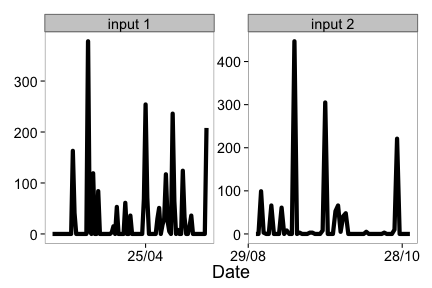
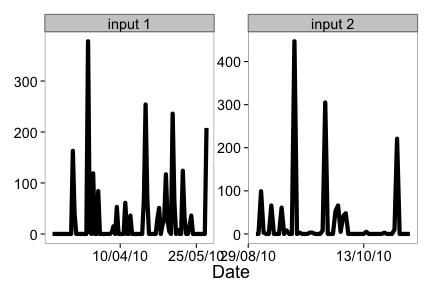
updated rnoaa tutorial

Changed region(s): [[0.2106, 0.8438, 0.662, 0.9062], [0.7824, 0.8438, 0.9931, 0.9062]]

diff --git a/tutorials/rnoaa_tutorial.md b/tutorials/rnoaa_tutorial.md
@@ -1,9 +1,8 @@
 ---
 title: rnoaa tutorial
 layout: tutorial
-packge_version: 0.1.0
+packge_version: 0.2.0
 ---
-
 
 
 
@@ -12,59 +11,66 @@ packge_version: 0.1.0
 ## Installation
 
 
-Install and load `rnoaa` into the R session.
+Install and load `rnoaa` into the R session. Stable version from CRAN
 
 
 ```r
-library("devtools")
+install.packages("rnoaa")
+```
+
+Or development version from Github:
+
+
+```r
+install.packages("devtools")
 devtools::install_github("rnoaa", "ropensci")
 ```
 
 
-
 ```r
-library("rnoaa")
-library("plyr")
+library('rnoaa')
+library('plyr')
 ```
 
-You'll also want to grab an API key from NOAA at [http://www.ncdc.noaa.gov/cdo-web/token](http://www.ncdc.noaa.gov/cdo-web/token).
+__Note__ that NOAA buoy data requires `netcdf`, and the `ncdf4` R package, which doesn't work well on Windows. Thus, we put functions to interact with that data into a different branch `buoy`. Install that version by doing
 
-<br>
+
+```r
+devtools::install_github("rnoaa", "ropensci", ref="buoy")
+library('rnoaa')
+```
 
 <section id="usage">
 
 ## Usage
 
-Get info on a station by specifying a datasetid, locationid, and stationid
+### Get info on a station by specifying a datasetid, locationid, and stationid
 
 
 ```r
-noaa_stations(datasetid = "GHCND", locationid = "FIPS:12017", stationid = "GHCND:USC00084289")
+ncdc_stations(datasetid='GHCND', locationid='FIPS:12017', stationid='GHCND:USC00084289')
 ```
 
 ```
 ## $meta
 ## NULL
-##
+## 
 ## $data
-##                  id                  name datacoverage    mindate
-## 1 GHCND:USC00084289 INVERNESS 3 SE, FL US            1 1899-02-01
-##      maxdate
-## 1 2014-04-22
-##
+##                  id elevation                  name elevationUnit
+## 1 GHCND:USC00084289      12.2 INVERNESS 3 SE, FL US        METERS
+##   datacoverage longitude    mindate latitude    maxdate
+## 1            1    -82.31 1899-02-01     28.8 2014-07-18
+## 
 ## attr(,"class")
-## [1] "noaa_stations"
+## [1] "ncdc_stations"
 ```
 
-<br>
-Search for data and get a data.frame or list
+### Search for data and get a data.frame
 
 
 ```r
-out <- noaa(datasetid = "GHCND", stationid = "GHCND:USW00014895", startdate = "2013-10-01",
-    enddate = "2013-12-01")
+out <- ncdc(datasetid='NORMAL_DLY', datatypeid='dly-tmax-normal', startdate = '2010-05-01', enddate = '2010-05-10')
 ```
-
 
 See a data.frame
 
@@ -74,166 +80,170 @@ out$data
 ```
 
 ```
-##              station value attributes datatype                date
-## 1  GHCND:USW00014895    29       ,,W,     AWND 2013-10-01T00:00:00
-## 2  GHCND:USW00014895     0   ,,W,2400     PRCP 2013-10-01T00:00:00
-## 3  GHCND:USW00014895     0       ,,W,     SNOW 2013-10-01T00:00:00
-## 4  GHCND:USW00014895     0       ,,W,     SNWD 2013-10-01T00:00:00
-## 5  GHCND:USW00014895   250   ,,W,2400     TMAX 2013-10-01T00:00:00
-## 6  GHCND:USW00014895   133   ,,W,2400     TMIN 2013-10-01T00:00:00
-## 7  GHCND:USW00014895   210       ,,W,     WDF2 2013-10-01T00:00:00
-## 8  GHCND:USW00014895   230       ,,W,     WDF5 2013-10-01T00:00:00
-## 9  GHCND:USW00014895    76       ,,W,     WSF2 2013-10-01T00:00:00
-## 10 GHCND:USW00014895    94       ,,W,     WSF5 2013-10-01T00:00:00
-## 11 GHCND:USW00014895    26       ,,W,     AWND 2013-10-02T00:00:00
-## 12 GHCND:USW00014895     0   ,,W,2400     PRCP 2013-10-02T00:00:00
-## 13 GHCND:USW00014895     0       ,,W,     SNOW 2013-10-02T00:00:00
-## 14 GHCND:USW00014895     0       ,,W,     SNWD 2013-10-02T00:00:00
-## 15 GHCND:USW00014895   278   ,,W,2400     TMAX 2013-10-02T00:00:00
-## 16 GHCND:USW00014895   144   ,,W,2400     TMIN 2013-10-02T00:00:00
-## 17 GHCND:USW00014895   250       ,,W,     WDF2 2013-10-02T00:00:00
-## 18 GHCND:USW00014895   270       ,,W,     WDF5 2013-10-02T00:00:00
-## 19 GHCND:USW00014895    58       ,,W,     WSF2 2013-10-02T00:00:00
-## 20 GHCND:USW00014895    72       ,,W,     WSF5 2013-10-02T00:00:00
-## 21 GHCND:USW00014895    31       ,,W,     AWND 2013-10-03T00:00:00
-## 22 GHCND:USW00014895   391   ,,W,2400     PRCP 2013-10-03T00:00:00
-## 23 GHCND:USW00014895     0       ,,W,     SNOW 2013-10-03T00:00:00
-## 24 GHCND:USW00014895     0       ,,W,     SNWD 2013-10-03T00:00:00
-## 25 GHCND:USW00014895   261   ,,W,2400     TMAX 2013-10-03T00:00:00
+##              station value        datatype                date fl_c
+## 1  GHCND:AQW00061705   869 DLY-TMAX-NORMAL 2010-05-01T00:00:00    C
+## 2  GHCND:CAW00064757   607 DLY-TMAX-NORMAL 2010-05-01T00:00:00    Q
+## 3  GHCND:CQC00914080   840 DLY-TMAX-NORMAL 2010-05-01T00:00:00    R
+## 4  GHCND:CQC00914801   858 DLY-TMAX-NORMAL 2010-05-01T00:00:00    R
+## 5  GHCND:FMC00914395   876 DLY-TMAX-NORMAL 2010-05-01T00:00:00    P
+## 6  GHCND:FMC00914419   885 DLY-TMAX-NORMAL 2010-05-01T00:00:00    P
+## 7  GHCND:FMC00914446   885 DLY-TMAX-NORMAL 2010-05-01T00:00:00    P
+## 8  GHCND:FMC00914482   868 DLY-TMAX-NORMAL 2010-05-01T00:00:00    R
+## 9  GHCND:FMC00914720   899 DLY-TMAX-NORMAL 2010-05-01T00:00:00    R
+## 10 GHCND:FMC00914761   897 DLY-TMAX-NORMAL 2010-05-01T00:00:00    P
+## 11 GHCND:FMC00914831   870 DLY-TMAX-NORMAL 2010-05-01T00:00:00    P
+## 12 GHCND:FMC00914892   883 DLY-TMAX-NORMAL 2010-05-01T00:00:00    P
+## 13 GHCND:FMC00914898   875 DLY-TMAX-NORMAL 2010-05-01T00:00:00    P
+## 14 GHCND:FMC00914911   885 DLY-TMAX-NORMAL 2010-05-01T00:00:00    P
+## 15 GHCND:FMW00040308   888 DLY-TMAX-NORMAL 2010-05-01T00:00:00    S
+## 16 GHCND:FMW00040504   879 DLY-TMAX-NORMAL 2010-05-01T00:00:00    C
+## 17 GHCND:FMW00040505   867 DLY-TMAX-NORMAL 2010-05-01T00:00:00    S
+## 18 GHCND:GQC00914025   852 DLY-TMAX-NORMAL 2010-05-01T00:00:00    P
+## 19 GHCND:GQW00041415   877 DLY-TMAX-NORMAL 2010-05-01T00:00:00    C
+## 20 GHCND:JQW00021603   852 DLY-TMAX-NORMAL 2010-05-01T00:00:00    P
+## 21 GHCND:PSC00914519   883 DLY-TMAX-NORMAL 2010-05-01T00:00:00    P
+## 22 GHCND:PSC00914712   840 DLY-TMAX-NORMAL 2010-05-01T00:00:00    P
+## 23 GHCND:PSW00040309   879 DLY-TMAX-NORMAL 2010-05-01T00:00:00    S
+## 24 GHCND:RMW00040604   867 DLY-TMAX-NORMAL 2010-05-01T00:00:00    S
+## 25 GHCND:RMW00040710   863 DLY-TMAX-NORMAL 2010-05-01T00:00:00    C
 ```
 
+### Plot data, super simple, but it's a start
 
 
-Plotting
+```r
+out <- ncdc(datasetid='NORMAL_DLY', stationid='GHCND:USW00014895', datatypeid='dly-tmax-normal', startdate = '2010-01-01', enddate = '2010-12-10', limit = 300)
+ncdc_plot(out)
+```
 
-Example 1
+![plot of chunk six](../assets/tutorial-images/rnoaa/six.png) 
+
+### More on plotting
+
+#### Example 1
 
 Search for data first, then plot
 
 
 ```r
-out <- noaa(datasetid = "GHCND", stationid = "GHCND:USW00014895", datatypeid = "PRCP",
-    startdate = "2010-05-01", enddate = "2010-10-31", limit = 500)
+out <- ncdc(datasetid='GHCND', stationid='GHCND:USW00014895', datatypeid='PRCP', startdate = '2010-05-01', enddate = '2010-10-31', limit=500)
 ```
-
 
 Default plot
 
 
 ```r
-noaa_plot(out)
+ncdc_plot(out)
 ```
 
-![plot of chunk unnamed-chunk-3](../assets/tutorial-images/rnoaa/unnamed-chunk-3.png)
-
+![plot of chunk unnamed-chunk-3](../assets/tutorial-images/rnoaa/unnamed-chunk-3.png) 
 
 Create 14 day breaks
 
 
 ```r
-noaa_plot(out, breaks = "14 days")
+ncdc_plot(out, breaks="14 days")
 ```
 
-![plot of chunk unnamed-chunk-4](../assets/tutorial-images/rnoaa/unnamed-chunk-4.png)
-
+![plot of chunk unnamed-chunk-4](../assets/tutorial-images/rnoaa/unnamed-chunk-4.png) 
 
 One month breaks
 
 
 ```r
-noaa_plot(out, breaks = "1 month", dateformat = "%d/%m")
+ncdc_plot(out, breaks="1 month", dateformat="%d/%m")
 ```
 
-![plot of chunk unnamed-chunk-5](../assets/tutorial-images/rnoaa/unnamed-chunk-5.png)
+![plot of chunk unnamed-chunk-5](../assets/tutorial-images/rnoaa/unnamed-chunk-5.png) 
 
-<br>
-Example 2
+#### Example 2
 
 Search for data
 
 
 ```r
-out2 <- noaa(datasetid = "GHCND", stationid = "GHCND:USW00014895", datatypeid = "PRCP",
-    startdate = "2010-05-01", enddate = "2010-05-03", limit = 100)
+out2 <- ncdc(datasetid='GHCND', stationid='GHCND:USW00014895', datatypeid='PRCP', startdate = '2010-05-01', enddate = '2010-05-03', limit=100)
 ```
-
 
 Make a plot, with 6 hour breaks, and date format with only hour
 
 
 ```r
-noaa_plot(out2, breaks = "6 hours", dateformat = "%H")
+ncdc_plot(out2, breaks="6 hours", dateformat="%H")
 ```
 
-![plot of chunk unnamed-chunk-7](../assets/tutorial-images/rnoaa/unnamed-chunk-7.png)
+![plot of chunk unnamed-chunk-7](../assets/tutorial-images/rnoaa/unnamed-chunk-7.png) 
 
-<br>
-Combine many calls to noaa function
+### Combine many calls to noaa function
 
 Search for two sets of data
 
 
 ```r
-out1 <- noaa(datasetid = "GHCND", stationid = "GHCND:USW00014895", datatypeid = "PRCP",
-    startdate = "2010-03-01", enddate = "2010-05-31", limit = 500)
+out1 <- ncdc(datasetid='GHCND', stationid='GHCND:USW00014895', datatypeid='PRCP', startdate = '2010-03-01', enddate = '2010-05-31', limit=500)
 
-out2 <- noaa(datasetid = "GHCND", stationid = "GHCND:USW00014895", datatypeid = "PRCP",
-    startdate = "2010-09-01", enddate = "2010-10-31", limit = 500)
+out2 <- ncdc(datasetid='GHCND', stationid='GHCND:USW00014895', datatypeid='PRCP', startdate = '2010-09-01', enddate = '2010-10-31', limit=500)
 ```
 
-
-Then combine with a call to `noaa_combine`
+Then combine with a call to `ncdc_combine`
 
 
 ```r
-df <- noaa_combine(out1, out2)
-head(df[[1]])
+df <- ncdc_combine(out1, out2)
+head(df[[1]]); tail(df[[1]])
 ```
 
 ```
-##             station value attributes datatype                date
-## 1 GHCND:USW00014895     0  T,,0,2400     PRCP 2010-03-01T00:00:00
-## 2 GHCND:USW00014895     0  T,,0,2400     PRCP 2010-03-02T00:00:00
-## 3 GHCND:USW00014895     0  T,,0,2400     PRCP 2010-03-03T00:00:00
-## 4 GHCND:USW00014895     0   ,,0,2400     PRCP 2010-03-04T00:00:00
-## 5 GHCND:USW00014895     0   ,,0,2400     PRCP 2010-03-05T00:00:00
-## 6 GHCND:USW00014895     0   ,,0,2400     PRCP 2010-03-06T00:00:00
+##             station value datatype                date fl_m fl_q fl_so
+## 1 GHCND:USW00014895     0     PRCP 2010-03-01T00:00:00    T          0
+## 2 GHCND:USW00014895     0     PRCP 2010-03-02T00:00:00    T          0
+## 3 GHCND:USW00014895     0     PRCP 2010-03-03T00:00:00    T          0
+## 4 GHCND:USW00014895     0     PRCP 2010-03-04T00:00:00               0
+## 5 GHCND:USW00014895     0     PRCP 2010-03-05T00:00:00               0
+## 6 GHCND:USW00014895     0     PRCP 2010-03-06T00:00:00               0
+##   fl_t
+## 1 2400
+## 2 2400
+## 3 2400
+## 4 2400
+## 5 2400
+## 6 2400
 ```
 
-```r
-tail(df[[1]])
 ```
-
+##               station value datatype                date fl_m fl_q fl_so
+## 148 GHCND:USW00014895   221     PRCP 2010-10-26T00:00:00               0
+## 149 GHCND:USW00014895     0     PRCP 2010-10-27T00:00:00               0
+## 150 GHCND:USW00014895     0     PRCP 2010-10-28T00:00:00    T          0
+## 151 GHCND:USW00014895     0     PRCP 2010-10-29T00:00:00    T          0
+## 152 GHCND:USW00014895     0     PRCP 2010-10-30T00:00:00               0
+## 153 GHCND:USW00014895     0     PRCP 2010-10-31T00:00:00               0
+##     fl_t
+## 148 2400
+## 149 2400
+## 150 2400
+## 151 2400
+## 152 2400
+## 153 2400
 ```
-##               station value attributes datatype                date
-## 148 GHCND:USW00014895   221   ,,0,2400     PRCP 2010-10-26T00:00:00
-## 149 GHCND:USW00014895     0   ,,0,2400     PRCP 2010-10-27T00:00:00
-## 150 GHCND:USW00014895     0  T,,0,2400     PRCP 2010-10-28T00:00:00
-## 151 GHCND:USW00014895     0  T,,0,2400     PRCP 2010-10-29T00:00:00
-## 152 GHCND:USW00014895     0   ,,0,2400     PRCP 2010-10-30T00:00:00
-## 153 GHCND:USW00014895     0   ,,0,2400     PRCP 2010-10-31T00:00:00
-```
-
 
 Then plot - the default passing in the combined plot plots the data together. In this case it looks kind of weird since a straight line combines two distant dates.
 
 
 ```r
-noaa_plot(df)
+ncdc_plot(df)
 ```
 
-![plot of chunk unnamed-chunk-10](../assets/tutorial-images/rnoaa/unnamed-chunk-10.png)
-
+![plot of chunk unnamed-chunk-10](../assets/tutorial-images/rnoaa/unnamed-chunk-10.png) 
 
 But we can pass in each separately, which uses `facet_wrap` in `ggplot2` to plot each set of data in its own panel.
 
 
 ```r
-noaa_plot(out1, out2, breaks = "60 days", dateformat = "%d/%m")
+ncdc_plot(out1, out2, breaks="45 days")
 ```
 
-![plot of chunk unnamed-chunk-11](../assets/tutorial-images/rnoaa/unnamed-chunk-11.png)
-
+![plot of chunk unnamed-chunk-11](../assets/tutorial-images/rnoaa/unnamed-chunk-11.png) 
 
 <section id="citing">
 
@@ -243,7 +253,7 @@ To cite `rnoaa` in publications use:
 
 <br>
 
-> Hart Edmund, Scott Chamberlain and Karthik Ram (2014). rnoaa: NOAA climate data from R. R package version 0.1.2. https://github.com/ropensci/rnoaa
+> Hart Edmund, Scott Chamberlain and Karthik Ram (2014). rnoaa: NOAA climate data from R. R package version 0.2.0. https://github.com/ropensci/rnoaa
 
 <section id="license_bugs">
 
